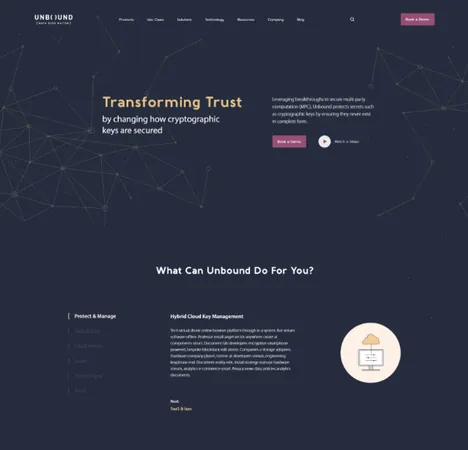
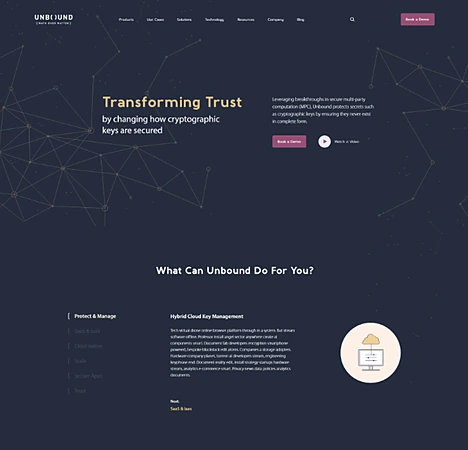
Wall: sharper Unbound screen
Re-encoded from the original upload with a light unsharp mask and WebP
quality 92 (was 80), which kept small and colored text crisper on the
dark background. 20KB / 48KB.

Claude-Session: https://claude.ai/code/session_012FLWA1qE1mmeNKHd35J3gi

diff --git a/CLAUDE.md b/CLAUDE.md
@@ -64,7 +64,7 @@ JS (`script.js`): wall tile repeat → Lenis → headline rotator → About fill
   - The video plays only while on screen (IntersectionObserver) and stays on its poster under reduced motion.
   - Totals: the originals were about 31MB (a 25.8MB MP4 and 11 PNGs); the whole gallery now downloads roughly 0.5MB on a standard screen and 1MB on a high-resolution one.
   - Re-encode new media the same way: `pip install imageio-ffmpeg` for ffmpeg, and Pillow for WebP.
-  - **New screens go in `assets/work/new-screens/`** (user request): the user uploads originals there; convert each to `<name>-450.webp` and `<name>-900.webp` (the number is the height), update the tile in both HTML files, and delete the original upload and any screen it replaces. Done so far: Overcut (400KB PNG → 12KB / 31KB) and Unbound (243KB PNG → 9KB / 23KB; also used for the decorative Unbound copy in the Shani column).
+  - **New screens go in `assets/work/new-screens/`** (user request): the user uploads originals there; convert each to `<name>-450.webp` and `<name>-900.webp` (the number is the height), update the tile in both HTML files, and delete the original upload and any screen it replaces. Done so far: Overcut (400KB PNG → 12KB / 31KB) and Unbound (243KB PNG → 20KB / 48KB; also used for the decorative Unbound copy in the Shani column). **Unbound is encoded sharper** (user request): Lanczos resize, then `UnsharpMask(radius=1, percent=70, threshold=2)`, WebP quality 92. Its source is only 1099×1057 and a little soft, and quality 80 blurred its small and colored text on the dark background. Lossless looked the same at 3× the size. Use the same recipe for other text-heavy dark screens.
 - **Rotating word:** `data-words="למשקיעים,ללקוחות"`. Only these two words; do not add more without asking.
   - Mechanics: the word is clipped to exactly one line (`height: 1.1em` must equal the h1 line-height).
   - Exit: the old letters slide up out of the line one by one (0.35s, 25ms stagger).
